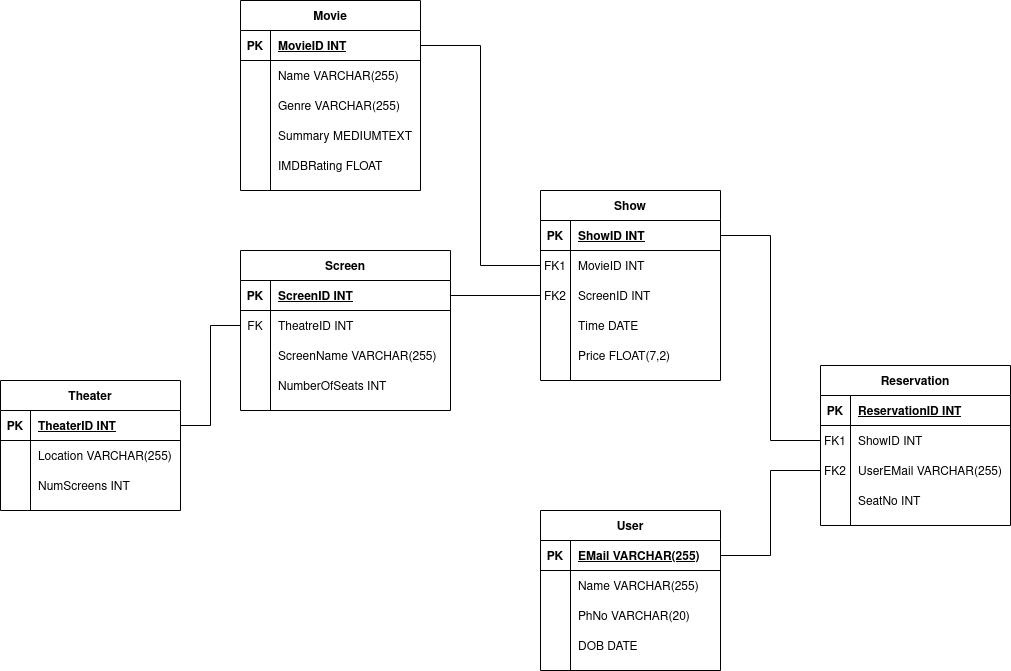
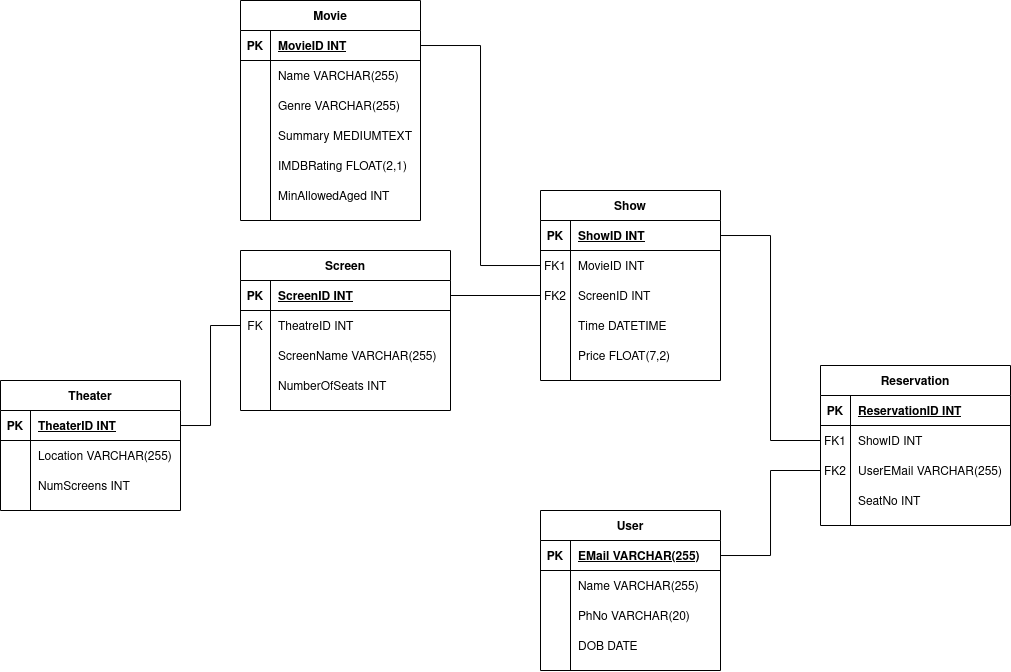
system catalogue population

diff --git a/src/DDBMS/PopulateMovieDatabase/GenSqlQueries.py b/src/DDBMS/PopulateMovieDatabase/GenSqlQueries.py
@@ -1,0 +1,14 @@
+from DDBMS.LocalApplicationDB.Movie import Movie1, Movie2
+
+class CONFIG:
+    Movie1_file = "./Movie1.sql"
+    Movie2_file = "./Movie2.sql"
+
+def addMovie(name, genre, summary, IMDB_rating, min_allowed_age):
+    query1  = f"INSERT INTO {Movie1.rel_name} ( {Movie1.Attributes.Name.name}, {Movie1.Attributes.Genre.name}, {Movie1.Attributes.IMDBRating.name} ) "\
+            + f"VALUES ( {Movie1.Attributes.Name.format(name)}, {Movie1.Attributes.Genre.format(genre)}, {Movie1.Attributes.IMDBRating.format(IMDB_rating)} );"
+    
+    query2  = f"INSERT INTO {Movie2.rel_name} ( {Movie2.Attributes.Summary.name}, {Movie2.Attributes.MinAllowedAge.name} ) "\
+            + f"VALUES ( {Movie2.Attributes.Summary.format(summary)}, {Movie2.Attributes.MinAllowedAge.format(min_allowed_age)} );"
+    
+    return query1, query2

diff --git a/src/DDBMS/LocalApplicationDB/Movie.py b/src/DDBMS/LocalApplicationDB/Movie.py
@@ -1,0 +1,19 @@
+from DDBMS.DBConstructs import Attribute, strFormat, numericFormatOfType
+
+class Movie1:
+    rel_name = "Movie1"
+
+    class Attributes:
+        MovieID = Attribute("MovieID", int, numericFormatOfType(int))
+        Name = Attribute("Name", str, strFormat)
+        Genre = Attribute("Genre", str, strFormat)
+        IMDBRating = Attribute("IMDBRating", float, numericFormatOfType(float))
+
+
+class Movie2:
+    rel_name = "Movie2"
+
+    class Attributes:
+        MovieID = Attribute("MovieID", int, numericFormatOfType(int))
+        Summary = Attribute("Summary", str, strFormat)
+        MinAllowedAge = Attribute("MinAllowedAge", int, numericFormatOfType(int))

diff --git a/src/DDBMS/DBConstructs/DataFormatFunctions.py b/src/DDBMS/DBConstructs/DataFormatFunctions.py
@@ -1,0 +1,11 @@
+def strFormat(value):
+    value = str(value)
+    return f"'{value}'"
+
+def numericFormatOfType(type):
+    return lambda value: numericFormat(value, type)
+    
+def numericFormat(value, type):
+    value = type(value)
+    return f"{value}"
+

diff --git a/src/DDBMS/DBConstructs/Attribute.py b/src/DDBMS/DBConstructs/Attribute.py
@@ -1,0 +1,5 @@
+class Attribute:
+    def __init__(self, name, python_type, format_function):
+        self.name = name
+        self.python_type = python_type
+        self.format = format_function

diff --git a/src/DDBMS/DBConstructs/__init__.py b/src/DDBMS/DBConstructs/__init__.py
@@ -1,0 +1,2 @@
+from .Attribute import Attribute
+from .DataFormatFunctions import strFormat, numericFormatOfType
